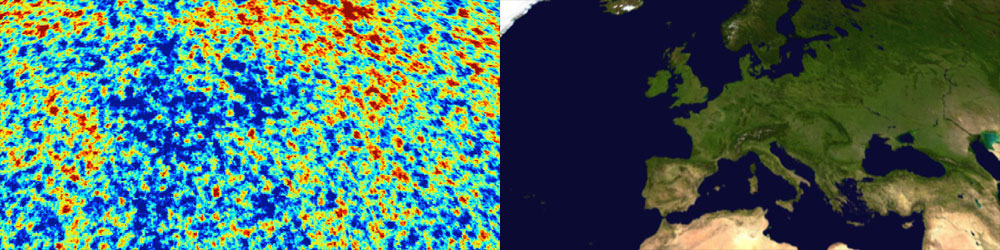
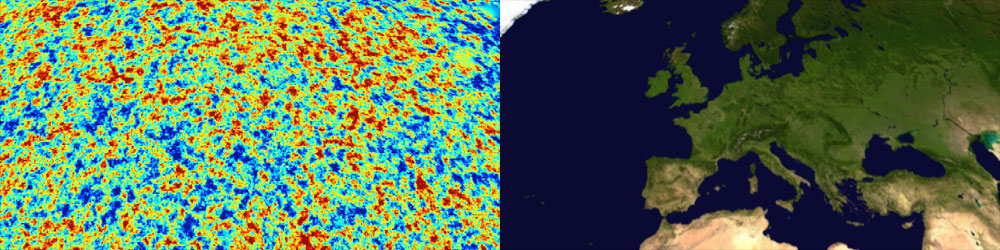
planck images added

diff --git a/js/CMB_slideshow.js b/js/CMB_slideshow.js
@@ -1,7 +1,4 @@
 // CMB_slideshow.js
-//
-// Copyright New Scientist, 2013.
-
 
 /////////////////////////////
 // First, set up SlidesJS. //
